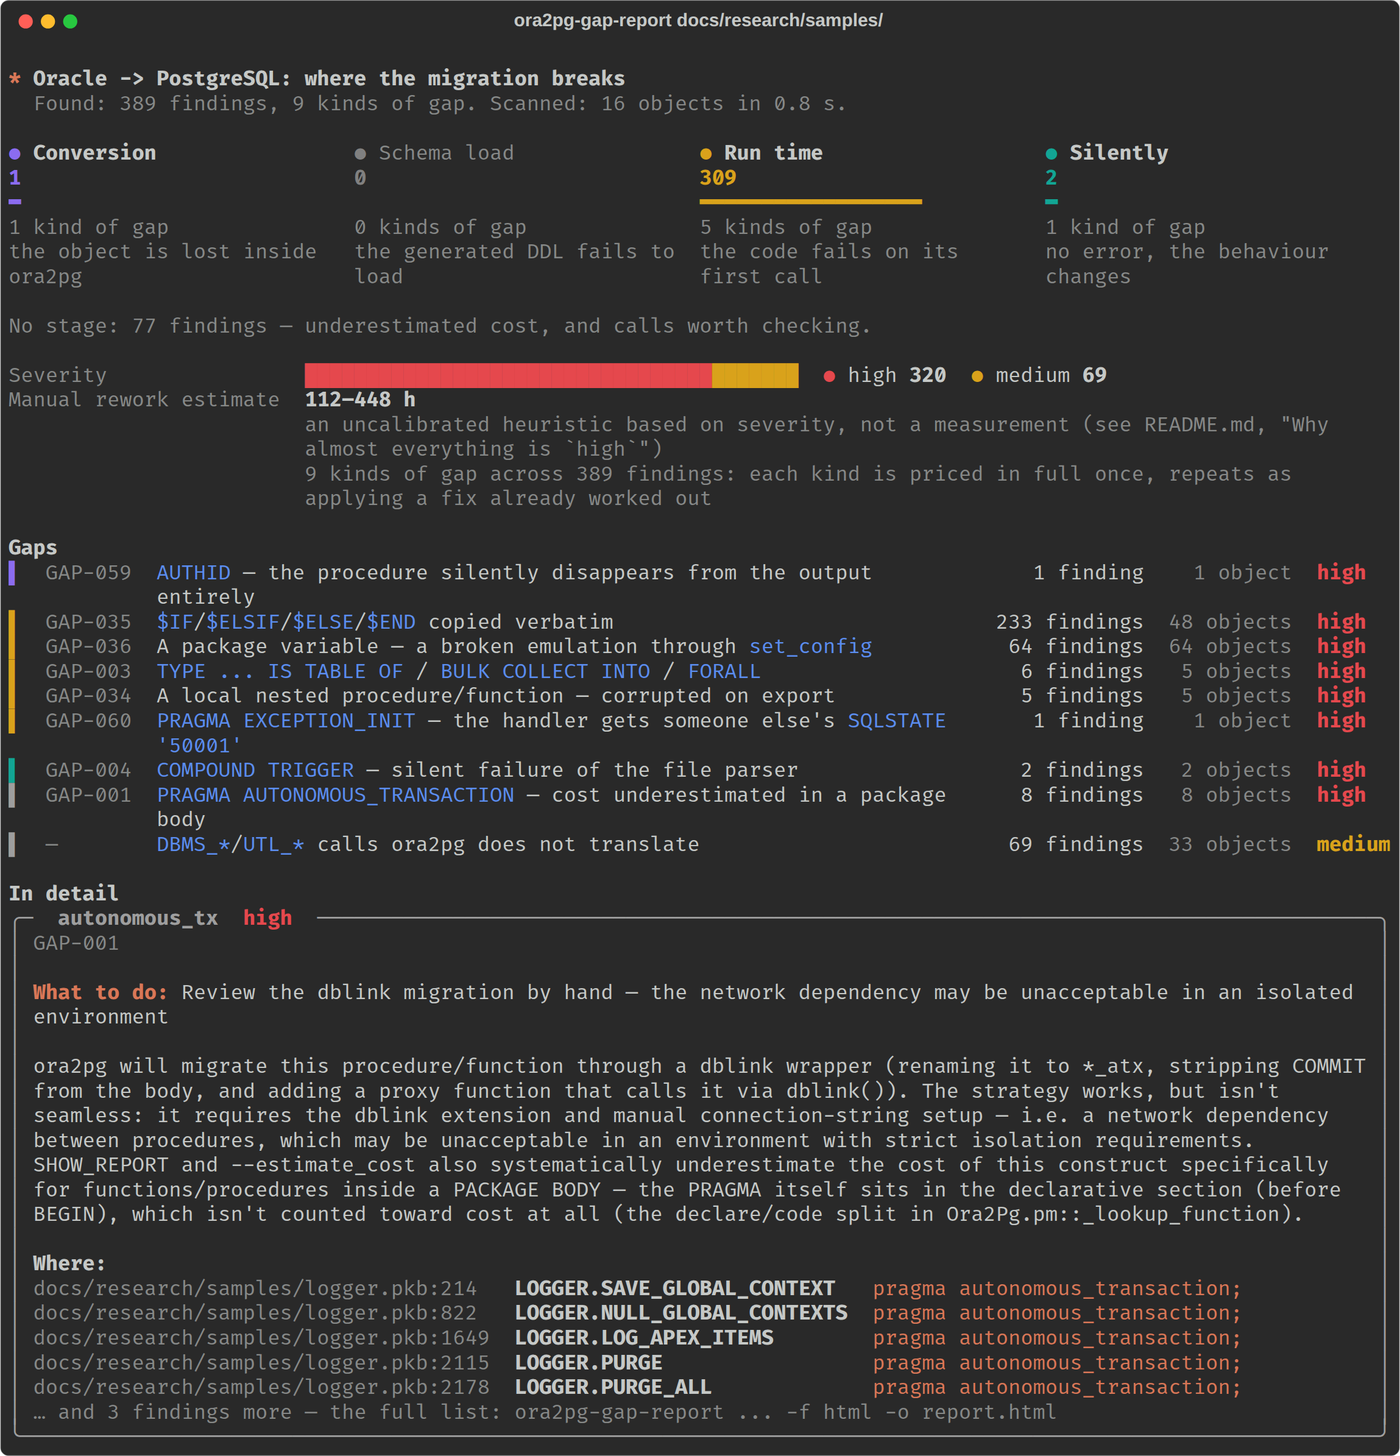
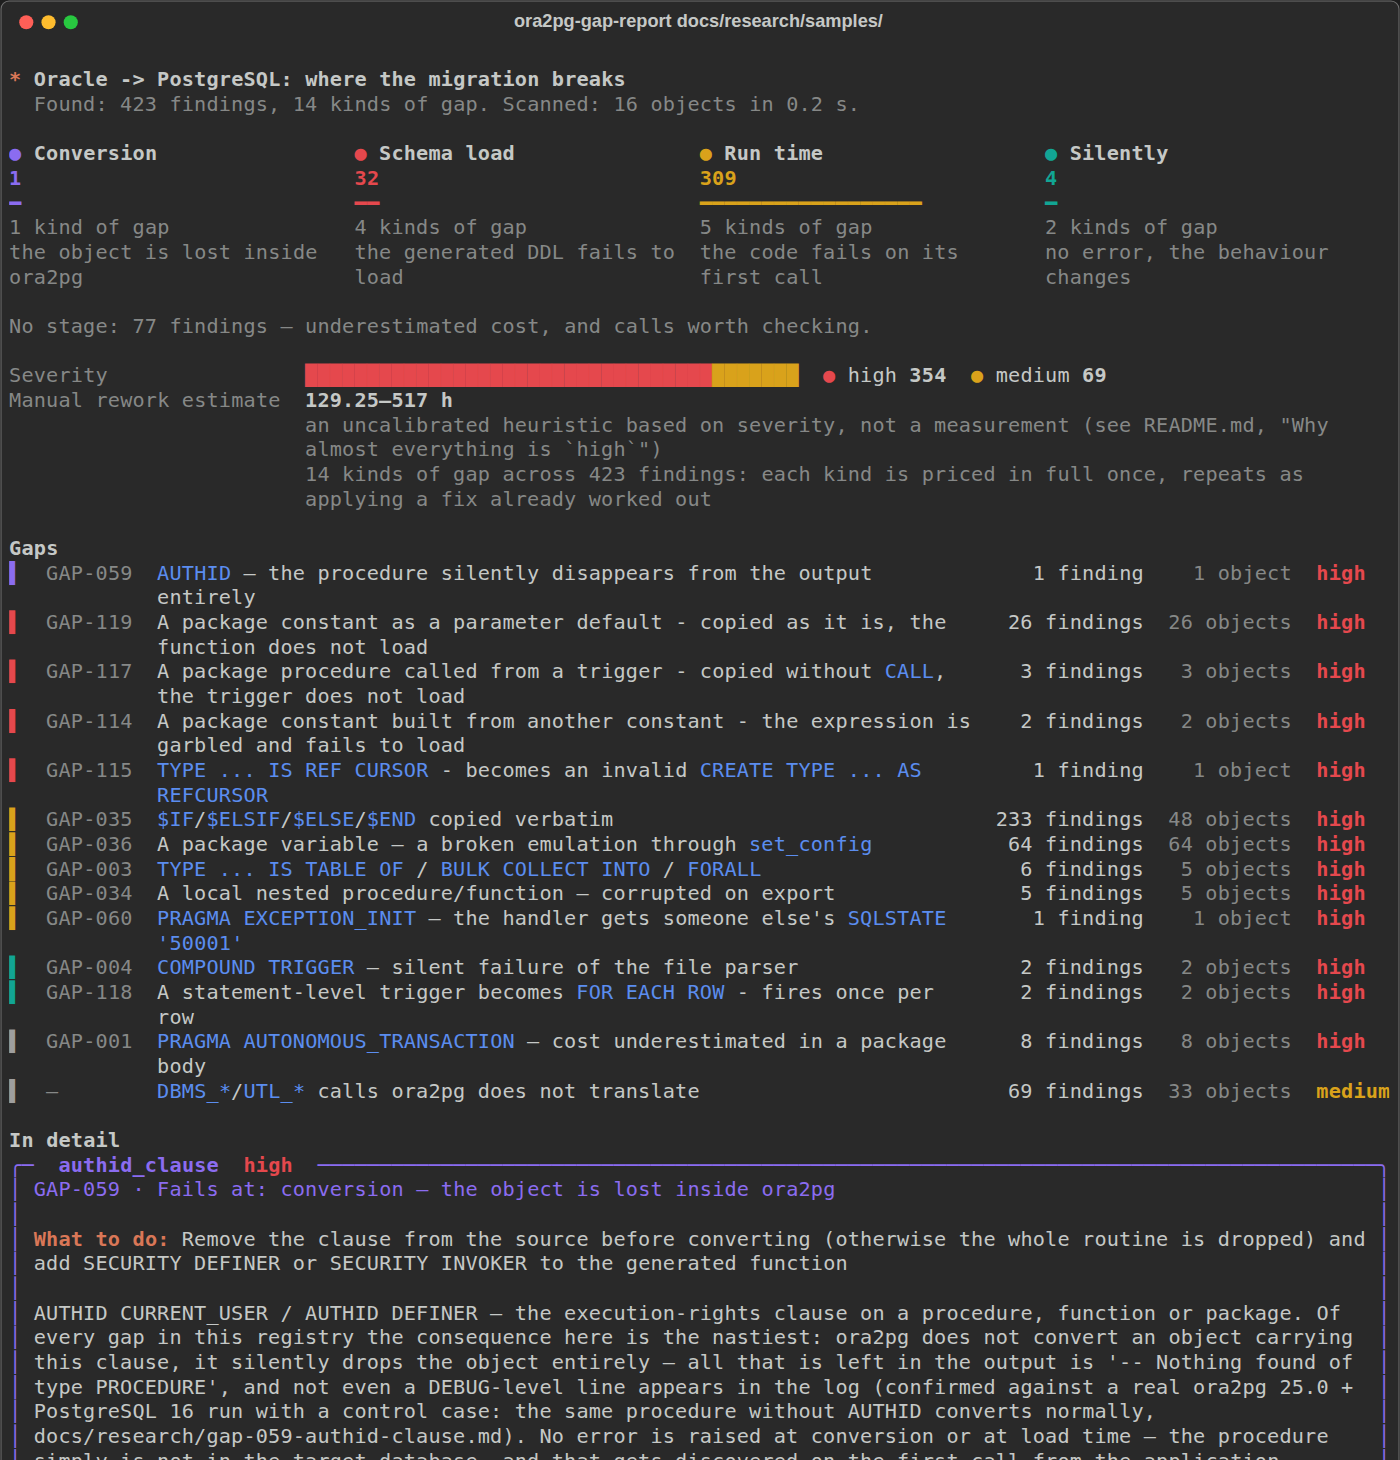
Retake the README screenshots, and fix what they showed
New and retaken from a real run on the sample packages: the terminal
report (now with GAP-114..119, recipes and the Next block), a new one of
--migrate's summary with real ora2pg 25.0 and PostgreSQL 16, and the
HTML report opening with the load card. The README shows the --migrate
picture next to its section.

Looking at them caught two things. Russian said 'из 131 команда'; after
'из' the noun takes the genitive, 'из 131 команды', now its own counted
form with a test. And the '... and 52 more' line sat outside the
collapsed error table it belongs to.

scripts/screenshots.py retakes them all: Rich's recording saved as SVG,
rendered by headless Chrome at natural size and cropped, ligatures off.

diff --git a/scripts/screenshots.py b/scripts/screenshots.py
@@ -1,0 +1,119 @@
+"""Retake the README screenshots in docs/screenshots/.
+
+    python scripts/screenshots.py
+
+The terminal pictures are Rich's own recording of the real output, saved
+as SVG and rendered by headless Chrome; the HTML report is rendered the
+same way. The --migrate pictures come from a real run on the sample
+packages: ora2pg from the docker image ora2pg:25.0 (or $ORA2PG_BIN) and
+PostgreSQL 16 in docker. Needs google-chrome and docker.
+
+When docker runs outside a sandbox that hides /tmp, nothing else is
+needed; otherwise point TMPDIR at a directory docker can see.
+"""
+
+from __future__ import annotations
+
+import dataclasses
+import os
+import re
+import subprocess
+import sys
+import tempfile
+import time
+from collections.abc import Callable
+from pathlib import Path
+
+from rich.console import Console
+
+from ora2pg_gap_report import html_report
+from ora2pg_gap_report.core import count_objects, expand_paths, scan_source
+from ora2pg_gap_report.load_check import parse_target, run_load_check
+from ora2pg_gap_report.migrate import run_migration
+from ora2pg_gap_report.models import Finding
+from ora2pg_gap_report.terminal_report import render, render_migration
+
+ROOT = Path(__file__).resolve().parents[1]
+SAMPLES = Path("docs/research/samples")
+CHROME = os.environ.get("CHROME", "google-chrome")
+ORA2PG = os.environ.get("ORA2PG_BIN", "docker:ora2pg:25.0")
+# Rich's SVG uses Fira Code, whose ligatures would draw -> as an arrow.
+NO_LIGATURES = "<style>text, tspan { font-variant-ligatures: none; }</style>"
+
+
+def _chrome(page: Path, png: Path, width: int, height: int) -> None:
+    subprocess.run(
+        [CHROME, "--headless=new", "--disable-gpu", "--no-sandbox", "--hide-scrollbars",
+         "--force-device-scale-factor=1", f"--window-size={width},{height}",
+         f"--screenshot={png}", f"file://{page.resolve()}"],
+        check=True, capture_output=True, timeout=120,
+    )
+
+
+def svg_to_png(svg: Path, png: Path, width: int, height: int | None) -> None:
+    """The SVG at its natural proportions, `width` px wide, cut to `height`
+    (or its own height): Chrome would otherwise shrink a long SVG to fit
+    the window."""
+    text = svg.read_text(encoding="utf-8").replace("<style>", NO_LIGATURES + "<style>", 1)
+    svg.write_text(text, encoding="utf-8")
+    vb = re.search(r'viewBox="0 0 ([\d.]+) ([\d.]+)"', text)
+    assert vb is not None
+    natural = round(width * float(vb.group(2)) / float(vb.group(1)))
+    page = svg.with_suffix(".page.html")
+    page.write_text(
+        '<!doctype html><html><body style="margin:0;background:#1e1e1e">'
+        f'<img src="{svg.name}" style="display:block;width:{width}px"></body></html>',
+        encoding="utf-8",
+    )
+    _chrome(page, png, width, min(height or natural, natural))
+
+
+def record(work: Path, out: Path, title: str, draw: Callable[[Console], None], name: str, height: int | None) -> None:
+    with open(os.devnull, "w", encoding="utf-8") as sink:
+        console = Console(record=True, width=112, force_terminal=True, color_system="truecolor", file=sink)
+        draw(console)
+    svg = work / f"{name}.svg"
+    console.save_svg(str(svg), title=title)
+    svg_to_png(svg, out / f"{name}.png", 1400, height)
+
+
+def main() -> int:
+    os.chdir(ROOT)
+    out = ROOT / "docs" / "screenshots"
+    work = Path(tempfile.mkdtemp(prefix="screenshots-"))
+
+    paths, _ = expand_paths([SAMPLES])
+    findings: list[Finding] = []
+    objects = 0
+    start = time.perf_counter()
+    for p in paths:
+        text = p.read_text(encoding="utf-8", errors="replace")
+        objects += count_objects(text)
+        findings += [dataclasses.replace(f, source_file=str(p)) for f in scan_source(text)]
+    elapsed = time.perf_counter() - start
+
+    result = run_migration(paths, work / "out", ora2pg_bin=ORA2PG, lang="en")
+    result.out_dir = Path("out")  # as the command line in the title names it
+    load = run_load_check(result.converted, parse_target("docker"))
+
+    for lang in ("en", "ru"):
+        record(
+            work, out, "ora2pg-gap-report docs/research/samples/",
+            lambda c: render(findings, console=c, elapsed_seconds=elapsed, objects_scanned=objects, lang=lang),
+            f"terminal.{lang}", 1460,
+        )
+        record(
+            work, out, "ora2pg-gap-report --migrate out/ --load-check docker docs/research/samples/",
+            lambda c: render_migration(result, load, console=c, lang=lang, load_check_asked=True),
+            f"migrate.{lang}", None,
+        )
+        page = work / f"report.{lang}.html"
+        with open(page, "w", encoding="utf-8") as report:
+            html_report.write_html(findings, report, lang=lang, load=load)
+        _chrome(page, out / f"html-report.{lang}.png", 1280, 1100)
+    print(f"written to {out}")
+    return 0
+
+
+if __name__ == "__main__":
+    sys.exit(main())

diff --git a/ora2pg_gap_report/html_report.py b/ora2pg_gap_report/html_report.py
@@ -458,7 +458,8 @@ def _write_load_card(w: Write, lang: str, load: "LoadCheckResult", gaps_on_page:
     if not failing:
         w(f'<section class="loadcard ok"><p class="verdict">{i18n.t(lang, "report_load_ok", statements=statements)}</p>\n')
     else:
-        verdict = i18n.t(lang, "report_load_bad", errors=i18n.count(lang, "error", len(failing)), statements=statements)
+        statements_of = i18n.count(lang, "statement_of", load.statements)
+        verdict = i18n.t(lang, "report_load_bad", errors=i18n.count(lang, "error", len(failing)), statements=statements_of)
         w(f'<section class="loadcard bad"><p class="verdict">{verdict}</p>\n')
     w(f'<p class="where-to">{i18n.t(lang, "report_load_server", server=server)}</p>\n')
     counts = Counter(e.category for e in load.errors)
@@ -489,9 +490,9 @@ def _write_load_card(w: Write, lang: str, load: "LoadCheckResult", gaps_on_page:
                 f"<td>{gap}</td><td class=\"mono\">{e.sqlstate}</td><td class=\"msg\">{html.escape(e.message)}</td></tr>\n"
             )
         w("</tbody></table>\n")
-        w("</details>\n")
         if len(load.errors) > _LOAD_ROWS_SHOWN:
             w(f'<p class="where-to">{i18n.t(lang, "report_load_more", n=len(load.errors) - _LOAD_ROWS_SHOWN)}</p>\n')
+        w("</details>\n")
     w("</section>\n")
 
 

diff --git a/ora2pg_gap_report/i18n.py b/ora2pg_gap_report/i18n.py
@@ -196,6 +196,8 @@ _COUNTED: dict[str, dict[str, tuple[str, ...]]] = {
     "file": {"ru": ("файл", "файла", "файлов"), "en": ("file", "files")},
     "hour": {"ru": ("час", "часа", "часов"), "en": ("hour", "hours")},
     "statement": {"ru": ("команда", "команды", "команд"), "en": ("statement", "statements")},
+    # after "из" (of): the genitive, "из 1 команды", "из 131 команды", "из 5 команд"
+    "statement_of": {"ru": ("команды", "команд", "команд"), "en": ("statement", "statements")},
     "error": {"ru": ("ошибка", "ошибки", "ошибок"), "en": ("error", "errors")},
 }
 

diff --git a/tests/test_i18n.py b/tests/test_i18n.py
@@ -224,3 +224,11 @@ def test_counts_take_the_russian_plural_form_the_number_needs():
     ]
     assert count("en", "finding", 1) == "1 finding"
     assert count("en", "finding", 2) == "2 findings"
+
+
+def test_statement_count_after_iz_takes_the_genitive():
+    # "не загрузилось: 92 ошибки из 131 команды", not "из 131 команда"
+    assert [i18n.count("ru", "statement_of", n) for n in (1, 2, 5, 21, 131)] == [
+        "1 команды", "2 команд", "5 команд", "21 команды", "131 команды",
+    ]
+    assert i18n.count("en", "statement_of", 131) == "131 statements"

diff --git a/ora2pg_gap_report/terminal_report.py b/ora2pg_gap_report/terminal_report.py
@@ -808,7 +808,7 @@ def render_migration(
                 lang,
                 "migrate_row_load_failed",
                 errors=i18n.count(lang, "error", len(failing)),
-                statements=i18n.count(lang, "statement", load.statements),
+                statements=i18n.count(lang, "statement_of", load.statements),
             ),
             style="bold #E5484D",
         )

diff --git a/README.ru.md b/README.ru.md
@@ -351,7 +351,7 @@ ora2pg-gap-report path/to/schema_dump.pkb --format html --output report.html
 ora2pg-gap-report path/to/schema_dump.pkb --check-connect-by
 ```
 
-![HTML-отчёт: рельс стадий, критичность и трудоёмкость, пробелы, один из них раскрыт](docs/screenshots/html-report.ru.png)
+![HTML-отчёт из --migrate: загружается ли сконвертированный код, затем рельс стадий, критичность и трудоёмкость, пробелы](docs/screenshots/html-report.ru.png)
 
 Формат `--format json` описан формальной JSON Schema —
 [`schemas/report.schema.json`](schemas/report.schema.json) (а формат
@@ -682,6 +682,8 @@ read_only_table   GAP-026   1 -> —   NOT_VERIFIABLE
 ora2pg-gap-report --migrate out/ --load-check docker schema/
 ora2pg-gap-report --migrate out/ --ora2pg-bin docker:my-ora2pg-image schema/   # ora2pg из образа
 ```
+
+![ora2pg-gap-report --migrate на образцах пакетов: пять шагов, настоящий ora2pg 25.0 и PostgreSQL 16](docs/screenshots/migrate.ru.png)
 
 ```
 out/

diff --git a/README.md b/README.md
@@ -353,7 +353,7 @@ ora2pg-gap-report path/to/schema_dump.pkb --format html --output report.html
 ora2pg-gap-report path/to/schema_dump.pkb --check-connect-by
 ```
 
-![The HTML report: the stage rail, severity and effort, and the gaps with one opened](docs/screenshots/html-report.en.png)
+![The HTML report from --migrate: whether the converted code loads, then the stage rail, severity and effort, and the gaps](docs/screenshots/html-report.en.png)
 
 The `--format json` format is described by a formal JSON Schema —
 [`schemas/report.schema.json`](schemas/report.schema.json) (and the
@@ -681,6 +681,8 @@ supports only `--format terminal` (default) and `--format json`.
 ora2pg-gap-report --migrate out/ --load-check docker schema/
 ora2pg-gap-report --migrate out/ --ora2pg-bin docker:my-ora2pg-image schema/   # ora2pg from an image
 ```
+
+![ora2pg-gap-report --migrate on the sample packages: five steps, real ora2pg 25.0 and PostgreSQL 16](docs/screenshots/migrate.en.png)
 
 ```
 out/
